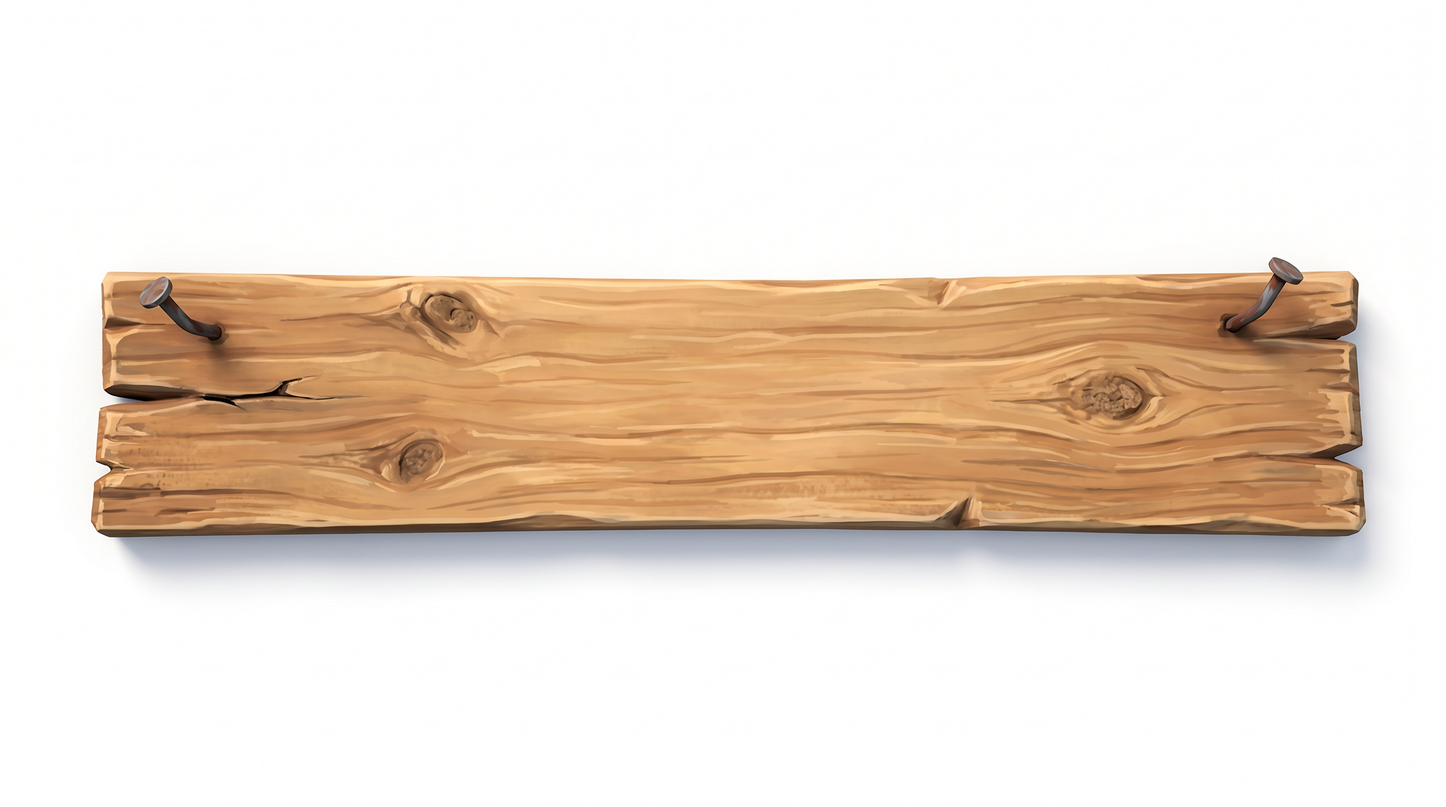
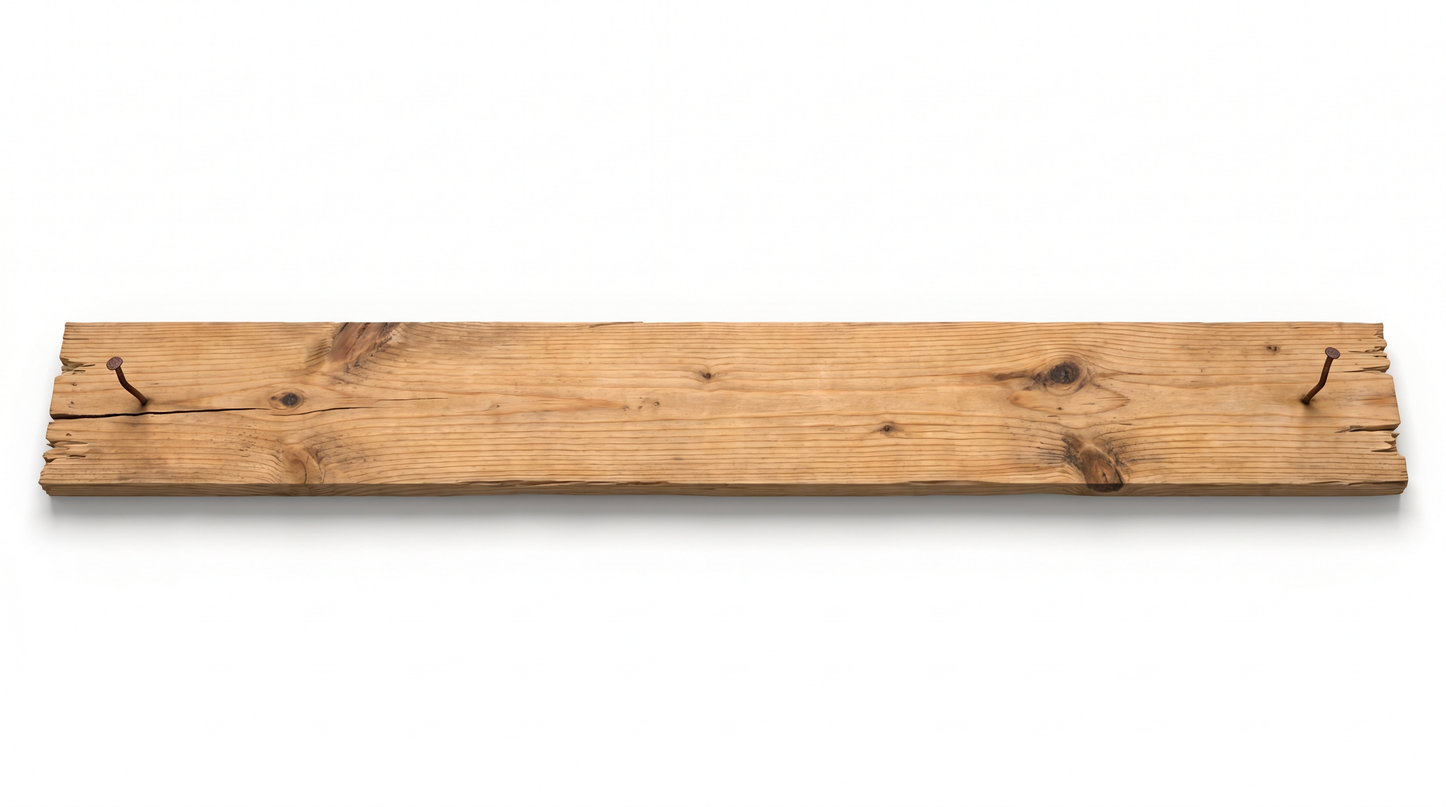
Plank v4: longer 2.5m x 25cm proportions across all 3 views

Changed region(s): [[0.0, 0.3125, 1.0, 0.7188]]

diff --git a/generate_props_repair_v4_plank.py b/generate_props_repair_v4_plank.py
@@ -1,0 +1,137 @@
+"""Plank v4: longer — 2.5m x 25cm (~10:1 ratio).
+3 views: top-down (Nano), 3/4 high (Nano), side-profile (GPT, no STYLE)."""
+import os, sys, threading, time, urllib.request
+sys.path.insert(0, os.path.dirname(os.path.abspath(__file__)))
+from generate_gameplay import NB, NB_BODY, GPT, GPT_BODY, BASE, http_json, poll
+from generate_props import run_to_props, PROPS_OUT
+
+ISOLATE = (
+    "\n\nABSOLUTE OUTPUT RULES — these override anything else:\n"
+    "- Output a STILL-LIFE PRODUCT PHOTO of the subject only.\n"
+    "- PURE WHITE SEAMLESS BACKGROUND. Subject centered. Soft contact shadow under it.\n"
+    "- NO hands, NO arms, NO fingers, NO people, NO characters, NO creatures.\n"
+    "- NO airplane, NO airplane interior, NO cabin, NO hangar, NO outdoor scene.\n"
+    "- NO additional props in the frame.\n"
+    "- NO border frame, NO inset card, NO 'BANANA AIRWAYS' text overlay on the image edges.\n"
+    "- NO first-person POV framing. The camera is a tripod product camera.\n"
+    "- 16:9 ratio. Subject fills ~80-90% of the frame width.\n"
+    "- Painted-3D illustration style with semi-realistic textures, slightly cartoony "
+    "proportions, soft global illumination."
+)
+
+PLANK_DESCRIPTION = (
+    "A single very LONG rough wooden plank — 2.5 METRES long and 25 CM wide "
+    "and about 3 cm thick. Extremely elongated proportions: the plank is "
+    "approximately 10 TIMES LONGER than it is wide — long, narrow, like a "
+    "scaffolding board or floor joist. Weathered pine, warm light-brown tone "
+    "with visible grain running lengthwise, a couple of dark knots, splintered "
+    "short edges, a small crack near one end. Two bent rusty nails are "
+    "half-driven into the top surface near the two short ends. Same painted-3D "
+    "weathered aesthetic as the previous version."
+)
+
+# Strong subject prompts — go through STYLE-injected pipeline
+WITH_STYLE_JOBS = [
+    {
+        "filename": "r03a-plank-top.png",
+        "endpoint": NB, "extra": dict(NB_BODY, resolution="2K"),
+        "prompt": (
+            PLANK_DESCRIPTION + "\n\n"
+            "VIEW: strict TOP-DOWN orthographic view, camera straight overhead "
+            "looking directly down at the plank. The plank lies flat and "
+            "spans the FULL WIDTH of the 16:9 frame edge to edge — its length "
+            "almost touches the left and right edges of the frame. The width "
+            "is only ~1/10 of the length, so it appears as a long narrow "
+            "horizontal bar across the centre of the frame. No perspective, "
+            "no foreshortening." + ISOLATE
+        ),
+    },
+    {
+        "filename": "r03c-plank-three-quarter.png",
+        "endpoint": NB, "extra": dict(NB_BODY, resolution="2K"),
+        "prompt": (
+            PLANK_DESCRIPTION + "\n\n"
+            "VIEW: 3/4 perspective from HIGH FRONT ANGLE (camera elevated "
+            "looking down at ~45 degrees), so the elongated proportions stay "
+            "readable. The plank lies flat, oriented diagonally across the "
+            "frame from lower-left corner to upper-right corner — long axis "
+            "spanning the full diagonal so the extreme length is unmistakable. "
+            "Both nails visible on the top surface." + ISOLATE
+        ),
+    },
+]
+
+# Side-profile prompt — no strong subject, must bypass STYLE
+SIDE_PROMPT = (
+    "Side-profile product photograph of a very long thin wooden plank, 2.5 "
+    "metres long and 25 cm wide and 3 cm thick. The plank is photographed "
+    "from a pure horizontal side view (camera at the same height as the "
+    "plank, looking straight at its long edge). The plank runs horizontally "
+    "across the ENTIRE WIDTH of the frame from edge to edge — it appears as "
+    "an extremely long thin horizontal band, almost 10 times longer than it "
+    "is tall in the frame, clearly showing the full 2.5 m length and the "
+    "3 cm thickness as a slender horizontal strip.\n\n"
+    "The plank is weathered pine, warm light-brown tone, dark knots visible "
+    "along its top edge, splintered short ends, with two bent rusty nails "
+    "sticking out from the top surface (the nails are visible above the "
+    "plank's top profile line). Painted-3D illustration style, semi-"
+    "realistic textures.\n\n"
+    "ABSOLUTE OUTPUT RULES:\n"
+    "- PURE WHITE SEAMLESS BACKGROUND. Subject centered. Soft contact "
+    "shadow under the plank.\n"
+    "- Strict horizontal side elevation, NO perspective, NO foreshortening.\n"
+    "- The plank fills the FULL WIDTH of the 16:9 frame, edge to edge.\n"
+    "- NO hands, NO arms, NO people, NO characters, NO creatures.\n"
+    "- NO airplane, NO cabin, NO hangar, NO outdoor scene, NO environment.\n"
+    "- NO other props in the frame.\n"
+    "- NO text, NO logo, NO label, NO writing."
+)
+
+
+def run_no_style(job, results):
+    name = job["filename"]
+    try:
+        body = {"prompt": job["prompt"], **job["extra"]}
+        print(f"  [{name}] submitting (no STYLE)", flush=True)
+        sub = http_json("POST", BASE + job["endpoint"], body)
+        job_id = sub.get("job_id")
+        print(f"  [{name}] queued as {job_id}", flush=True)
+        final = poll(job_id)
+        urls = final.get("result", {}).get("urls", []) if final else []
+        if not urls:
+            print(f"  [{name}] FAIL"); results[name] = ("fail", final); return
+        out = os.path.join(PROPS_OUT, name)
+        req = urllib.request.Request(urls[0])
+        with urllib.request.urlopen(req, timeout=120) as r, open(out, "wb") as f:
+            f.write(r.read())
+        print(f"  [{name}] OK saved -> {out}", flush=True)
+        results[name] = ("ok", urls[0])
+    except Exception as e:
+        import traceback; traceback.print_exc()
+        results[name] = ("exception", str(e))
+
+
+def main():
+    side_job = {
+        "filename": "r03b-plank-side.png",
+        "endpoint": GPT, "extra": dict(GPT_BODY),
+        "prompt": SIDE_PROMPT,
+    }
+    all_jobs = WITH_STYLE_JOBS + [side_job]
+    print(f"Plank v4 (longer): {len(all_jobs)} jobs\n")
+    results = {}
+    threads = []
+    for j in WITH_STYLE_JOBS:
+        threads.append(threading.Thread(target=run_to_props, args=(j, results), daemon=True))
+    threads.append(threading.Thread(target=run_no_style, args=(side_job, results), daemon=True))
+    for t in threads:
+        t.start(); time.sleep(0.3)
+    for t in threads:
+        t.join()
+    print("\nDONE:")
+    for j in all_jobs:
+        print(f"  {j['filename']:40s} {results.get(j['filename'], ('missing',))[0]}")
+
+
+if __name__ == "__main__":
+    main()
